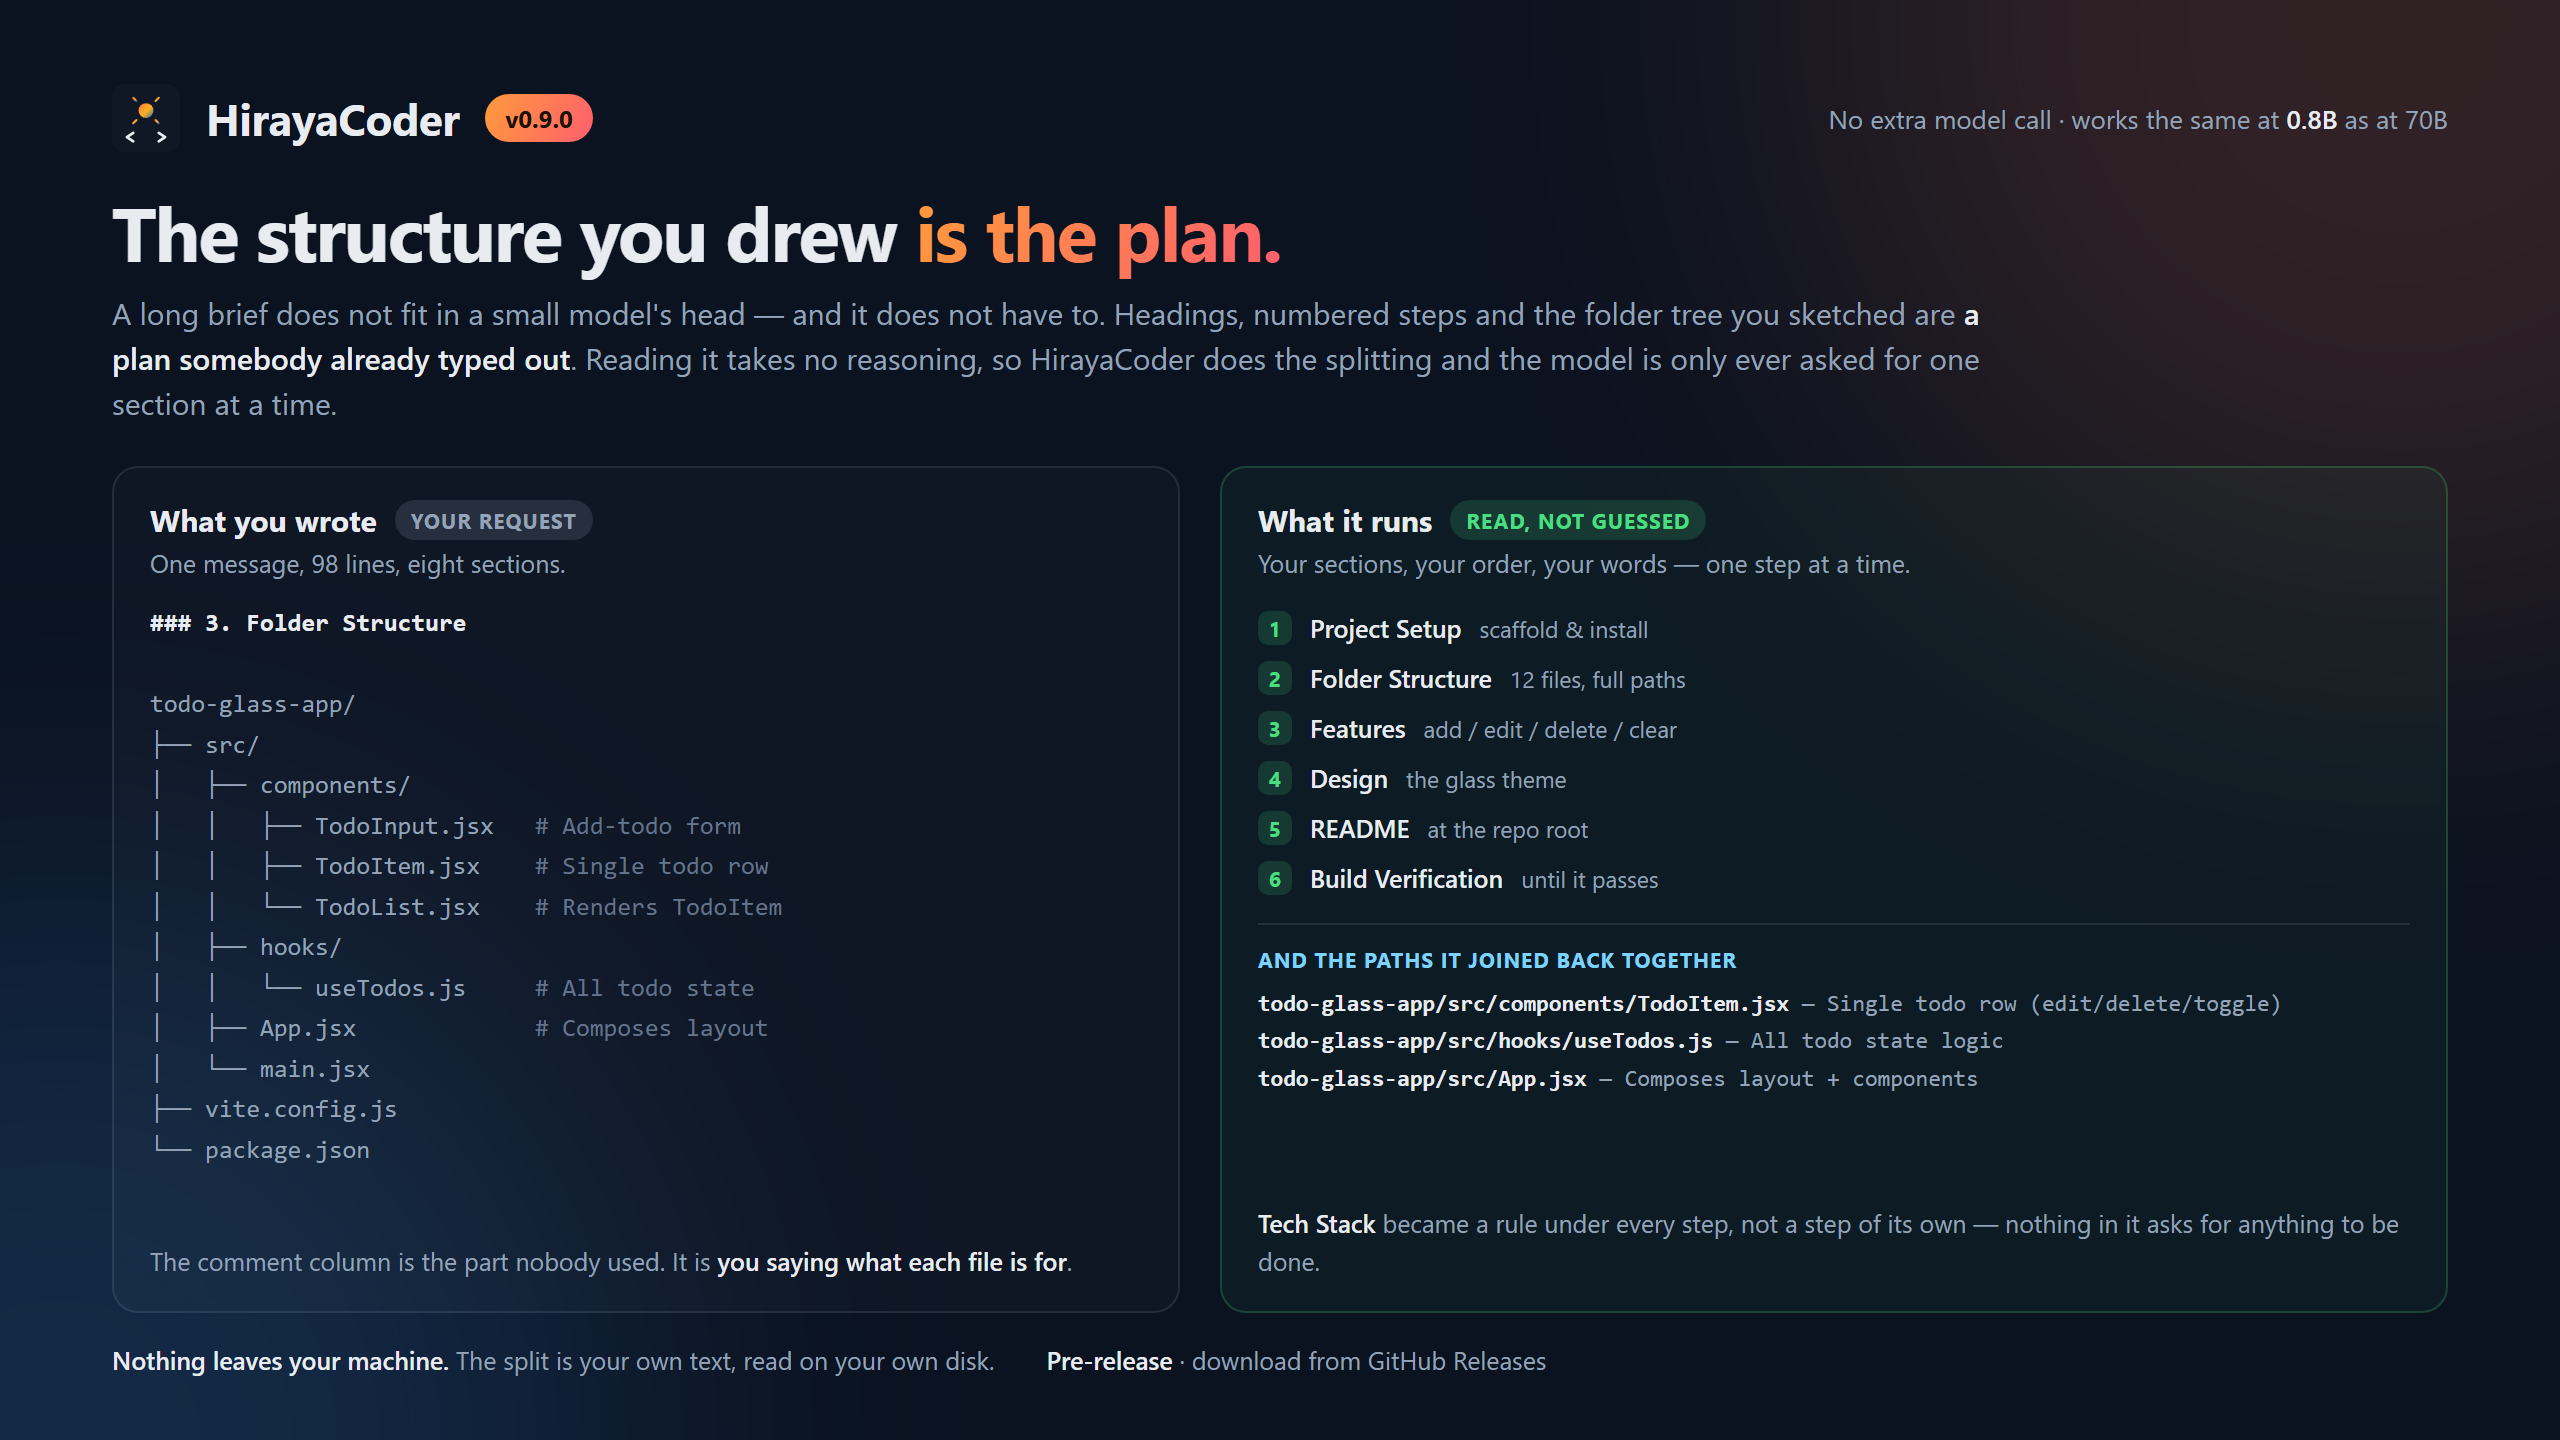
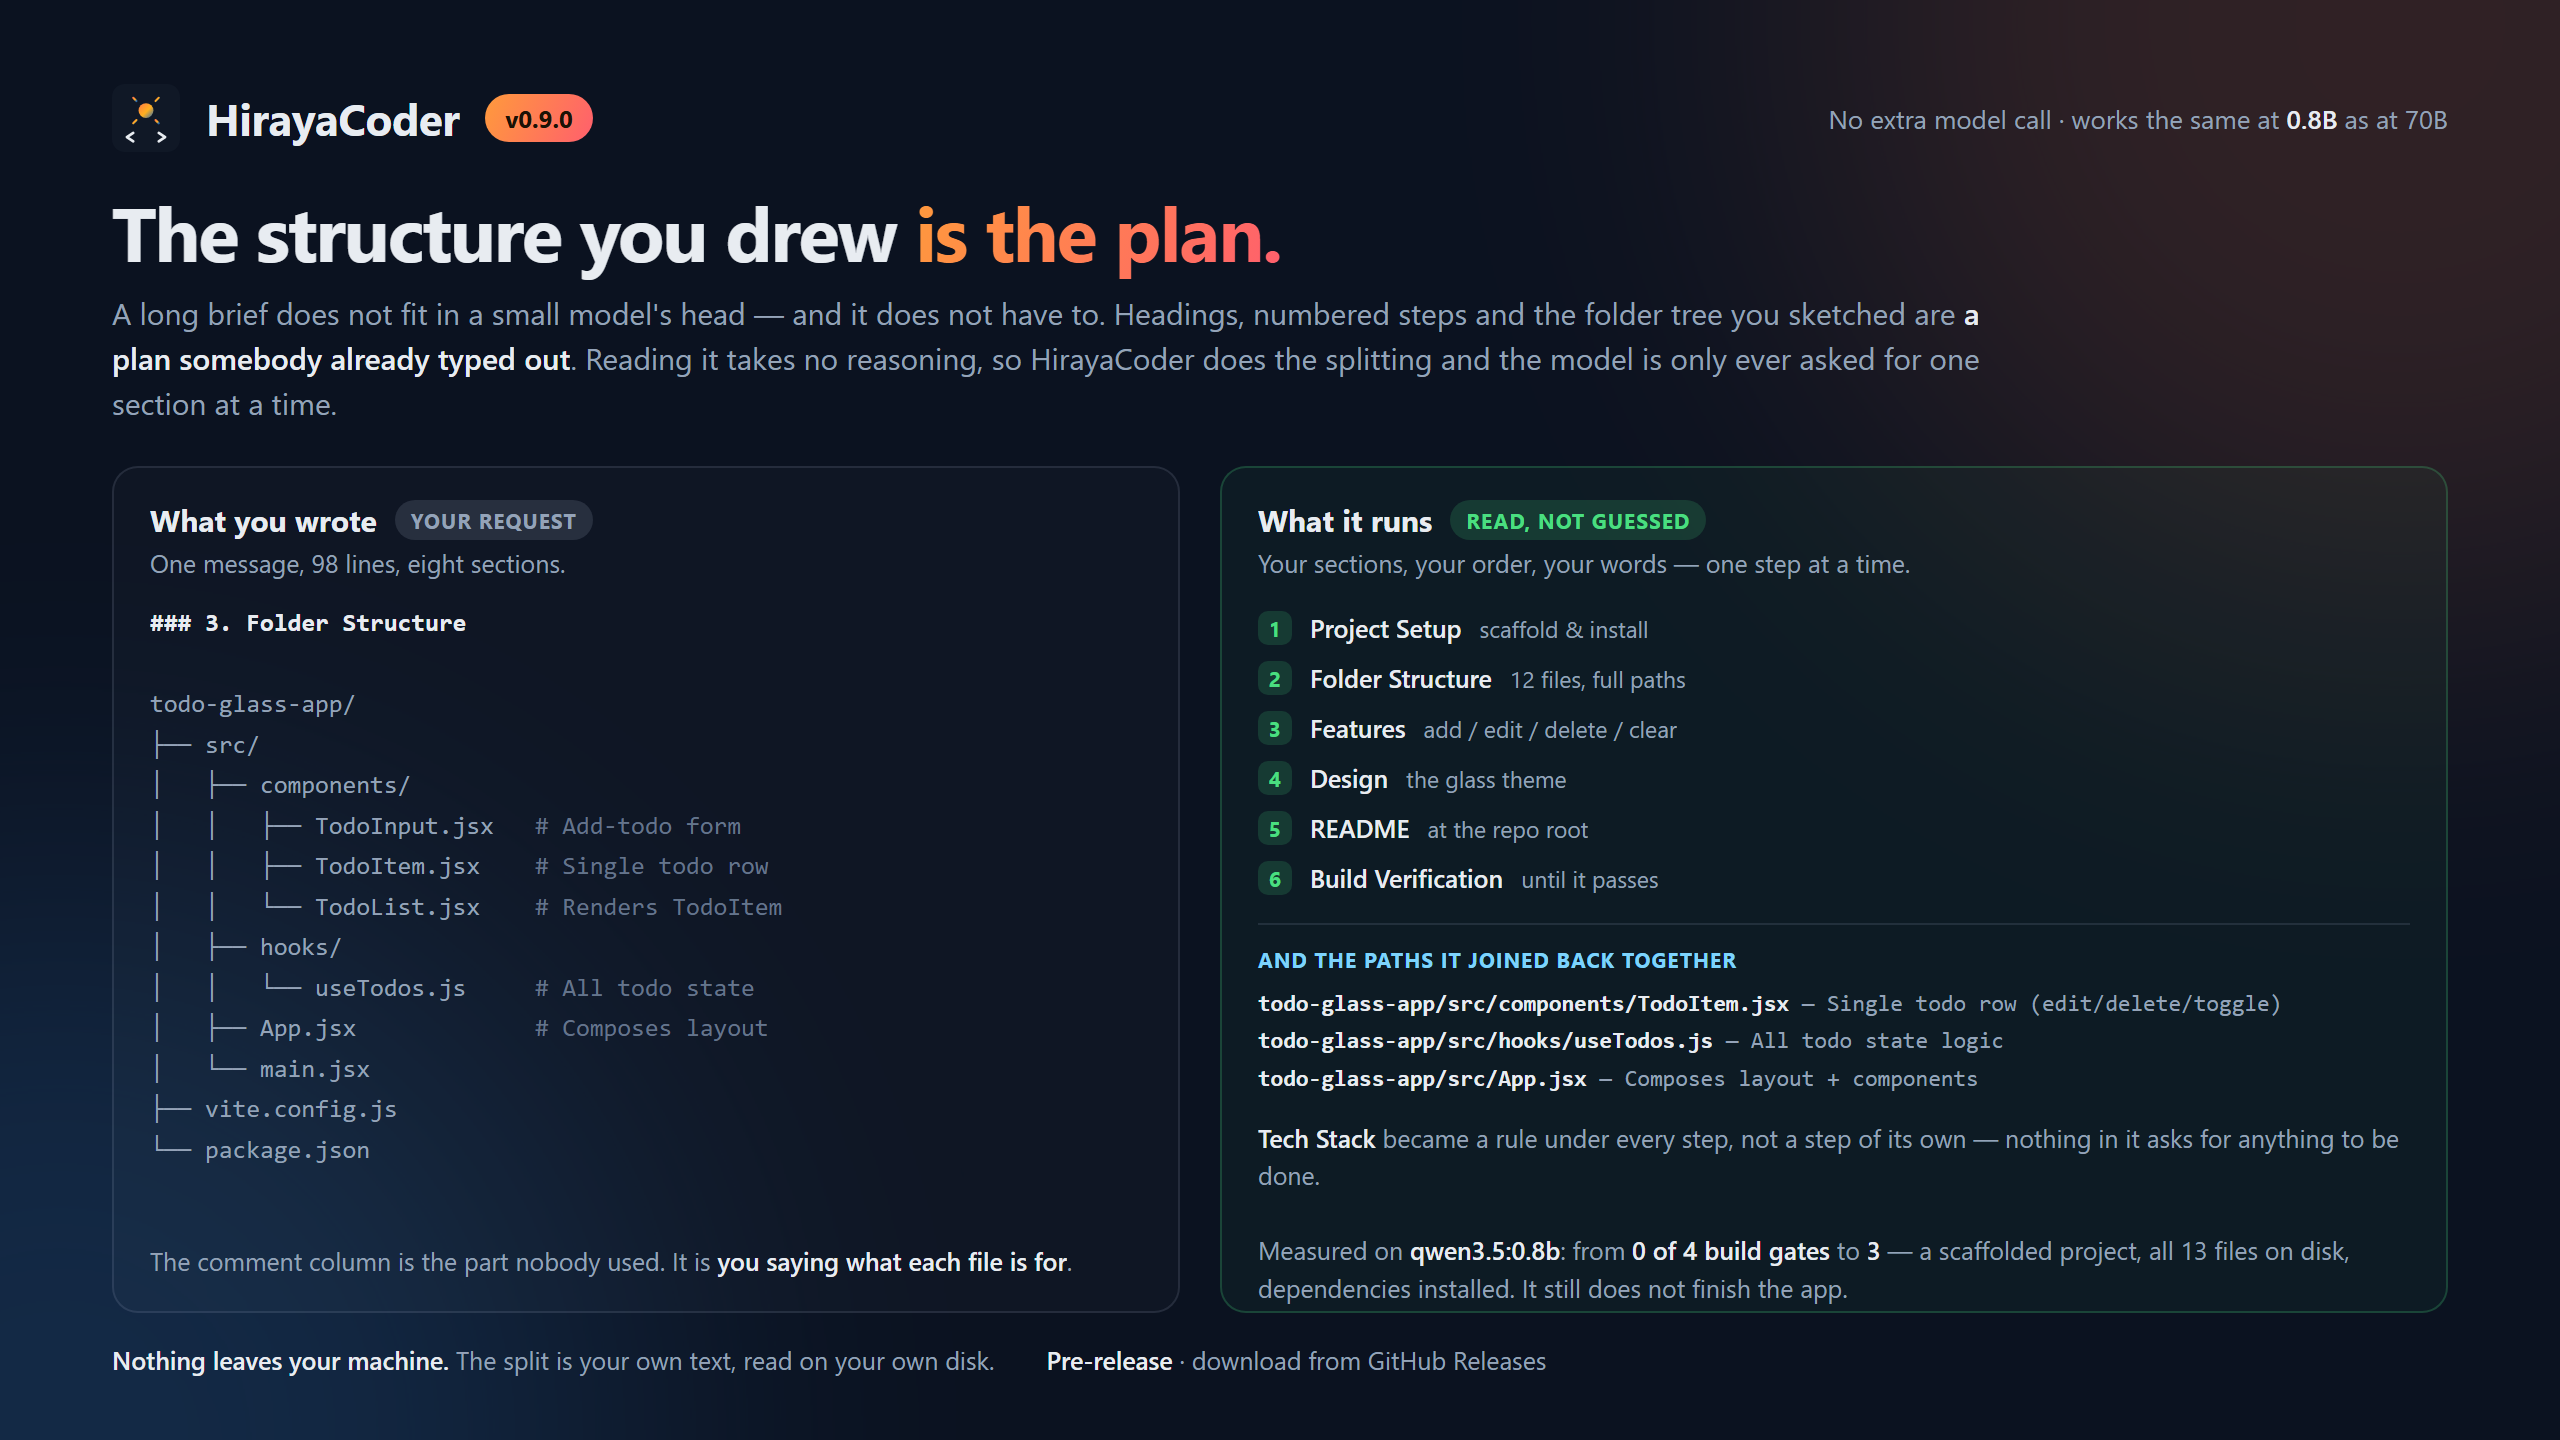
docs(0.9.0): the README and the images say what was measured, including the miss
**README.** The model table called `qwen3.5:0.8b` *"too small to finish even
simple tasks"*, which is no longer true and was never quite the right shape. It
now says what it does: writes files correctly, does not finish an app.

A new section sets the expectation directly, because the honest answer is more
useful than the encouraging one — a 0.8B model now scaffolds the project, writes
every file the request named and installs the dependencies, where the previous
release spent the whole session listing the directory; and it still does not get
the app working. Useful for "write me this file"; not something to hand a whole
application to and walk away from.

The benchmark section gains the four briefs, which is the point of having four:
a model's trouble with the work can be told apart from its trouble with the
language it was asked to work in.

**Images.** All six sources bumped to v0.9.0 and re-rendered. The "New in" tag
moved to *Big requests become a checklist* — the card this release actually
rewrote, since the checklist now comes from your own headings rather than from a
planning call — and off *Agentic on every model*, per the rule in the image
README that only one card ever carries it.

`your-structure-is-the-plan` gains the measured result rather than mechanism
alone: **0 of 4 build gates to 3** on `qwen3.5:0.8b`, a scaffolded project, all
13 files on disk, dependencies installed — *and* the sentence "It still does not
[…]

Changed region(s): [[0.4688, 0.8438, 0.9375, 0.9062], [0.5, 0.7812, 0.9375, 0.8125]]

diff --git a/docs/images/src/capabilities.html b/docs/images/src/capabilities.html
@@ -87,7 +87,7 @@
         </g>
       </svg>
       <div class="brand-name">HirayaCoder</div>
-      <div class="ver">v0.8.0</div>
+      <div class="ver">v0.9.0</div>
       <div class="head-right">for <b>Visual Studio Code</b> &nbsp;·&nbsp; powered by <b>Ollama</b></div>
     </header>
 
@@ -113,13 +113,13 @@
       <div class="card">
         <div class="ic"><svg width="17" height="17" viewBox="0 0 24 24" fill="none" stroke="#ff9a3c" stroke-width="2" stroke-linecap="round" stroke-linejoin="round"><path d="M13 2 3 14h8l-1 8 10-12h-8z"/></svg></div>
         <h3>Agentic on every model</h3>
-        <p><span style="color:#4ade80">New in 0.8.0.</span> The agent tracks what it has already read, written and run — so <b>even a 1B model</b> stops going in circles and gets to the writing.</p>
+        <p>The agent tracks what it has already read, written and run — so <b>even a 1B model</b> stops going in circles and gets to the writing.</p>
       </div>
 
       <div class="card">
         <div class="ic"><svg width="17" height="17" viewBox="0 0 24 24" fill="none" stroke="#ff9a3c" stroke-width="2" stroke-linecap="round" stroke-linejoin="round"><path d="M9 11l2 2 4-4"/><rect x="3" y="4" width="18" height="17" rx="2"/><path d="M8 4V2h8v2"/></svg></div>
         <h3>Big requests become a checklist</h3>
-        <p>Steps run one at a time, verified against what they actually wrote — and when one is genuinely stuck, it <b>stops and asks you</b> instead of guessing.</p>
+        <p><span style="color:#4ade80">New in 0.9.0.</span> Your headings, numbered steps and folder tree <b>are</b> the checklist — read from your own request, no extra model call, one step at a time.</p>
       </div>
 
       <div class="card">

diff --git a/docs/images/src/knows-what-it-has.html b/docs/images/src/knows-what-it-has.html
@@ -107,7 +107,7 @@
         </g>
       </svg>
       <div class="brand-name">HirayaCoder</div>
-      <div class="ver">v0.8.0</div>
+      <div class="ver">v0.9.0</div>
       <div class="head-right">Measured on <b>qwen3.5:0.8b</b> &middot; React + Vite + Tailwind build</div>
     </header>
 
@@ -134,7 +134,7 @@
       </div>
 
       <div class="col after">
-        <div class="col-hd"><h2>After</h2><span class="badge a">v0.8.0</span></div>
+        <div class="col-hd"><h2>After</h2><span class="badge a">v0.9.0</span></div>
         <div class="col-sub">Handed back what it already had, with the next move named.</div>
 
         <div class="row"><span class="n">1</span><span class="a">list_files</span><span class="p">.</span><span class="m ok">ok</span></div>

diff --git a/docs/images/src/your-structure-is-the-plan.html b/docs/images/src/your-structure-is-the-plan.html
@@ -164,7 +164,9 @@ todo-glass-app/
 
         <div class="note">
           <b>Tech Stack</b> became a rule under every step, not a step of its own — nothing in it asks for
-          anything to be done.
+          anything to be done.<br /><br />
+          Measured on <b>qwen3.5:0.8b</b>: from <b>0 of 4 build gates</b> to <b>3</b> — a scaffolded project,
+          all 13 files on disk, dependencies installed. It still does not finish the app.
         </div>
       </div>
     </div>

diff --git a/docs/images/src/hero-offline-agent.html b/docs/images/src/hero-offline-agent.html
@@ -152,7 +152,7 @@
           </g>
         </svg>
         <div class="brand-name">HirayaCoder</div>
-        <div class="ver">v0.8.0</div>
+        <div class="ver">v0.9.0</div>
       </div>
 
       <h1>Your AI pair programmer,<br /><span class="grad">fully offline.</span></h1>

diff --git a/docs/images/src/live-session.html b/docs/images/src/live-session.html
@@ -129,7 +129,7 @@
           </g>
         </svg>
         <div class="brand-name">HirayaCoder</div>
-        <div class="ver">v0.8.0</div>
+        <div class="ver">v0.9.0</div>
       </div>
 
       <h1>Watch it work,<br /><span class="grad">step by step.</span></h1>

diff --git a/README.md b/README.md
@@ -359,7 +359,23 @@ rather than on the descriptions.
 | `qwen3.5:4b` | 3.4 GB | 8–16 GB RAM | Good, smaller download |
 | `llama3.2:1b` | 1.3 GB | 8 GB RAM | For low-spec machines. Simple single-file jobs only |
 | `gemma4:e4b` | 9.6 GB | 32 GB RAM or a Mac | The strongest, if you have room |
-| `qwen3.5:0.8b` | 1.0 GB | — | **Avoid.** Too small to finish even simple tasks |
+| `qwen3.5:0.8b` | 1.0 GB | — | Last resort. Writes files correctly; does not finish an app |
+
+### What a very small model will and will not do
+
+Worth setting expectations, because the honest answer is more useful than the
+encouraging one. Measured on a 98-line brief for a complete React app:
+
+- **A 0.8B model now scaffolds the project, writes every file the request named, and
+  installs the dependencies.** In the previous release the same model spent its whole
+  session listing the directory and wrote nothing.
+- **It does not get the app working.** The build still fails, and no model at this size
+  finished the app in any of our runs.
+
+So a very small model is genuinely useful for *"write me this file"* and for the parts of
+a big request that are mechanical. Handing it a whole application and walking away is not
+something we can recommend yet, and the numbers behind that are in
+[the evaluation notes](https://github.com/jaymar921/HirayaCoder/blob/main/doc/SESSION-ANALYSIS-0.9.0.md).
 
 Switch models any time from the dropdown at the top of the chat — no reinstall needed.
 
@@ -405,13 +421,23 @@ documented properly elsewhere.
 Measured on three named machines, with the delete declined at the prompt on purpose — a
 model that claims it deleted the file has failed the task whatever else it got right.
 There are four harnesses: editing an existing project, building one from an empty folder,
-wiring an existing project together, and — new in 0.9.0 — building a whole React app from
-one brief and then **driving it in a headless browser**, clicking every control the brief
-asked for.
+wiring an existing project together, and — new in 0.9.0 — building a whole application
+from one brief and then **driving the finished thing**, either by clicking every control
+in a headless browser or by calling its service layer directly.
 
-That last one exists because of a result worth stating plainly: a model passed the
-scaffold, structure, install and build checks, and shipped an app whose only button
-incremented Vite's demo counter. Four green gates and nothing that worked. The full
+That last harness runs four briefs, so a model's trouble with the work can be told apart
+from its trouble with the language it was asked to work in:
+
+| Brief | Stack | Graded by |
+|---|---|---|
+| TODO app | React + Vite + Tailwind | 12 features, clicked in a browser |
+| Contact manager | React + Vite + Vitest | 12 features, clicked in a browser |
+| Point of sale | Java + Swing + Maven | 8 features, through the service layer |
+| Point of sale | Python + Tkinter, stdlib only | 8 features, through the service layer |
+
+It exists because of a result worth stating plainly: a model passed the scaffold,
+structure, install and build checks, and shipped an app whose only button incremented
+Vite's demo counter. Four green gates and nothing that worked. The full
 tables, including what each model broke and how, are in
 [MODELS.md](https://github.com/jaymar921/HirayaCoder/blob/main/doc/MODELS.md) and
 [benchmarks/](https://github.com/jaymar921/HirayaCoder/blob/main/benchmarks/README.md).

diff --git a/docs/images/src/README.md b/docs/images/src/README.md
@@ -45,12 +45,15 @@ writes nothing, so check the file timestamps rather than the exit code:
 ## When these need updating
 
 - **The version badge**, on every release. It appears once per file, as `v0.9.0`.
+  All six sources were bumped together for 0.9.0.
 - **The "New in …" line**, whenever a release changes what a card is claiming. It moves
   to whichever card the release actually changed rather than staying put — it sat on
   *Knows your machine* for 0.6.1, moved to *Big requests become a checklist* for 0.7.0,
   and to *Agentic on every model* for 0.8.0, which is the card that release actually
-  changed. Only ever one card carries it; two "New in" tags read as a changelog rather
-  than as a highlight.
+  changed. For 0.9.0 it moved again, to *Big requests become a checklist*, because that
+  is the card 0.9.0 rewrote — the checklist now comes from your own headings rather than
+  from a planning call. Only ever one card carries it; two "New in" tags read as a
+  changelog rather than as a highlight.
 - **The mock chat transcript** in the hero, if the panel's real layout changes enough that
   the picture stops being an honest one. It is a mock, not a screenshot — but it should
   never show something the extension does not do.
